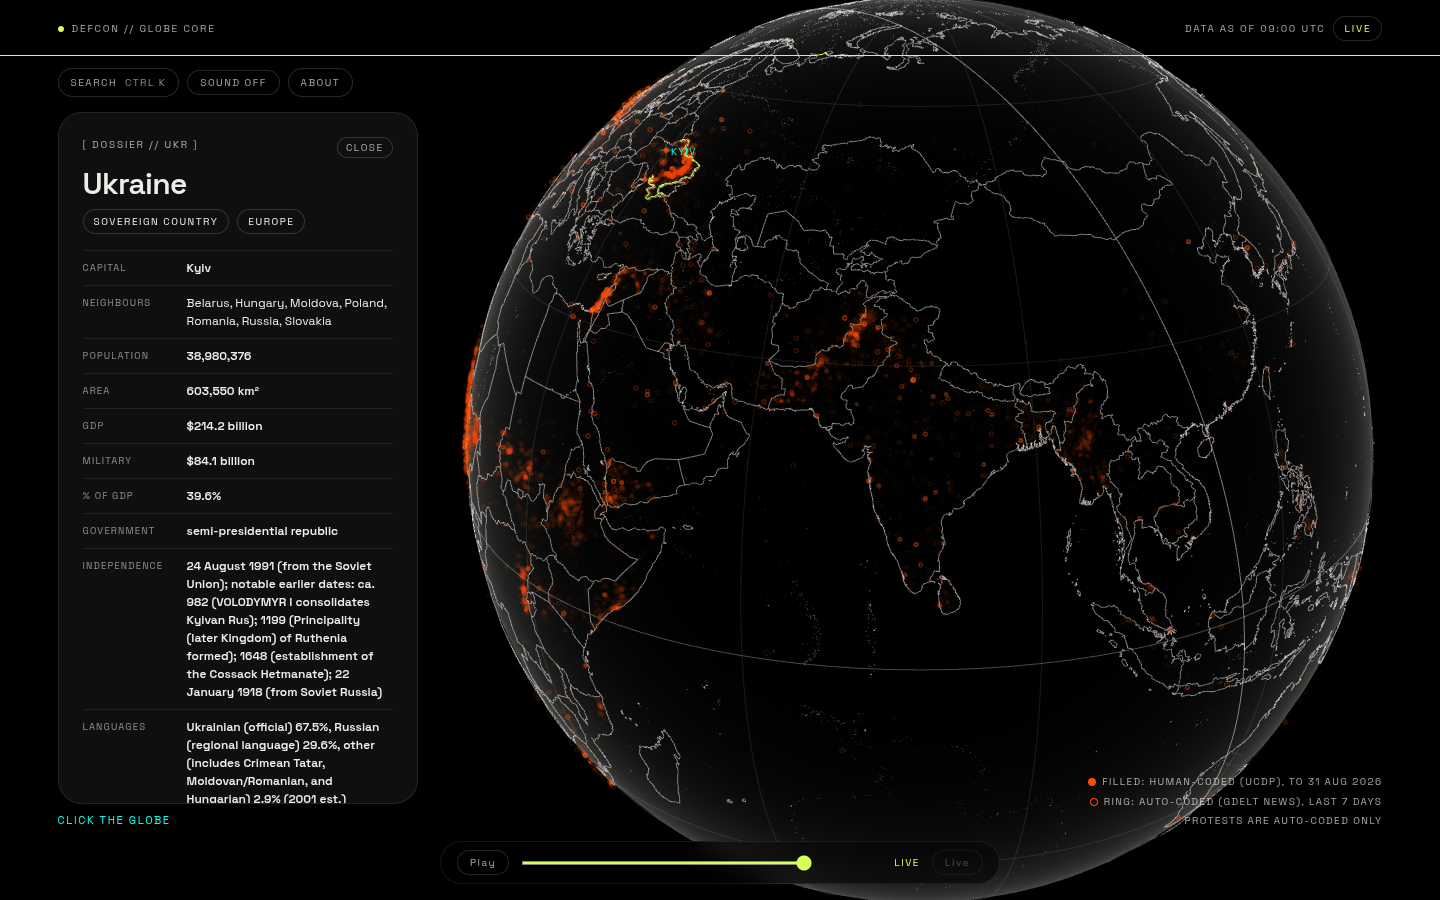
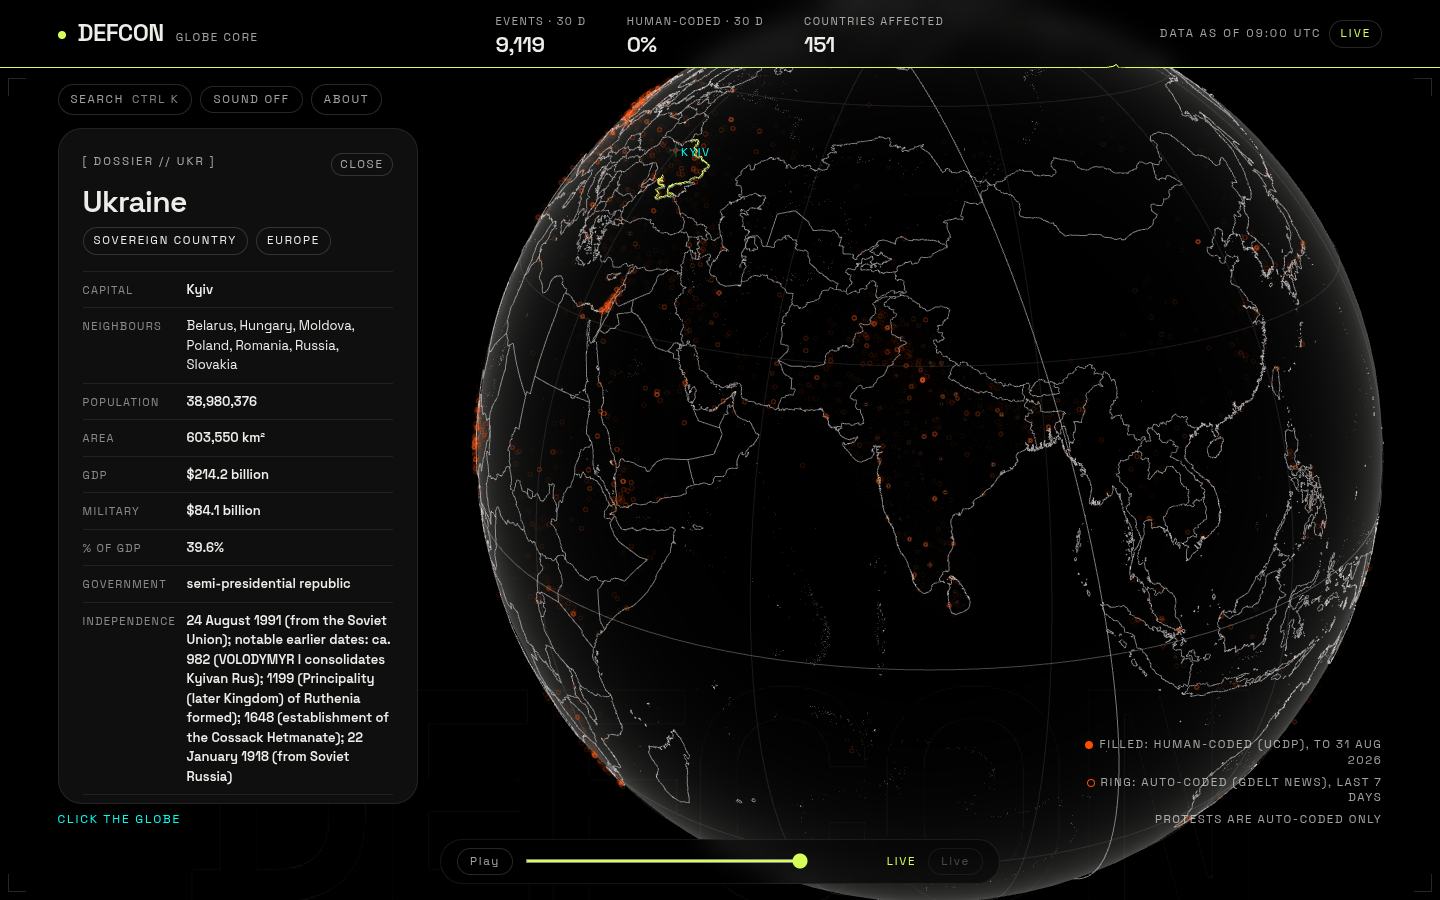
docs(plan-7): record the UI polish and refresh the README screenshots
Why / Context:
Plan 7 Task 5. The ledger and the public README should show the new look.

Detailed inventory:
- docs/images/home.png and dive.png retaken from the built app (headless
  Chrome, 1440x900): glass top bar with live numbers, Hotspots and Latest
  rails, HUD ticks, faint DEFCON word.
- DESIGN-LANGUAGE (UI polish section), DECISIONS D-054, BACKLOG (Plan 7
  deferred items).
- CommandPalette hint "Ctrl K" hidden on phones; the right rail yields to an
  open dossier below 1500 px.

Verification / Impact:
- Full suite passes; screenshots checked at 1100, 1280, 1440, 1920 and 375 px.
- NOT verified: real devices, Firefox.

diff --git a/docs/DECISIONS.md b/docs/DECISIONS.md
@@ -57,4 +57,5 @@ Newest last. "Who": Owner = the project owner decided; Builder = Claude decided 
 | D-051 | 2026-10-18 | Security headers: a strict Content-Security-Policy (`default-src 'self'`, `script-src 'self'` with no inline or eval, no inline styles (React `style` props go through the CSSOM, verified), `img-src 'self'`, same-origin fonts, workers and connections, no plugins, framing, `<base>` or form posts), HSTS (2 years, no includeSubDomains), COOP and CORP. Verified against the built app served with the same headers (`npm run serve:dist`); this found Vite inlining small fonts as `data:` URIs, fixed by `build.assetsInlineLimit: 0` rather than loosening `font-src`. A custom `VITE_EVENTS_BASE` origin must be added to `connect-src`. | Defence in depth for a static site that loads only its own files. | Builder |
 | D-052 | 2026-10-18 | Reliability and honesty: a render error in one panel shows an inline message and never blanks the globe; diagnostics are an in-memory log (20 entries, messages cut, URL queries removed) shown in About and copyable, never sent anywhere; no analytics, cookies or third-party requests (the About page says so); a scheduled freshness monitor fails when the live `recent.meta.json` is older than 12 hours (needs the owner's `SITE_URL` variable). The About page lists every source with licence and age and what the data does not cover. | No accounts or paid services; the owner hears about staleness through GitHub. | Builder |
 | D-053 | 2026-10-18 | The repo is public under the **MIT licence** for the code; the data files keep their upstream licences (UCDP and World Bank CC BY 4.0 need attribution, Natural Earth and the Factbook are public domain, GDELT must be cited), stated in the README and the About page. Before going public the full git history was scanned for key shapes (none), tracked files for large or sensitive files (none; the Survey of India PDF is never committed, only scripts and findings), and the commit author email was noted. Topics and a `v1.0.0` release were added; the README gained real screenshots (headless Chrome of the built app). | Owner: "license laga do, repo public kar do, topics aur release laga do". MIT is the simplest permissive choice and keeps the data licences separate. | Owner decided, Builder chose MIT |
+| D-054 | 2026-10-18 | UI polish after the first look at the live site (owner: ugly scrollbar, small typography, thin top bar, hollow dashboard; the globe, background and motion stay as they are). A type scale with a floor of 11 px, a hairline scrollbar, a glass top bar with live global numbers, two information rails (Hotspots and Latest) built only from data the app already has, and the HUD frame with the faint outline DEFCON word. Honesty rules kept: every number states its window, "--" is shown for unavailable, the Hotspots footnote says news coverage is uneven (it ranks reporting, not danger), and the rails go to a "live view only" message during time travel. | Fills the empty space with meaning instead of decoration; no new data or dependency. | Owner asked, Builder designed |
 

diff --git a/docs/DESIGN-LANGUAGE.md b/docs/DESIGN-LANGUAGE.md
@@ -29,6 +29,16 @@ Syne 700/800 (display: tight, `line-height` about .85, outline variant for backg
 - Missing data is shown as a redaction bar and says "unavailable"; every field shows source and date.
 - `prefers-reduced-motion` disables the boot and auto-rotation; sound is off by default.
 
+## UI polish (Plan 7)
+
+Owner feedback on the live site: the default scrollbar clashed, the type and top bar were thin, the desktop layout felt empty. Fixes, in the same language:
+
+- **Type scale** (`tokens.css`): mono labels 11.5 px (nothing below 11 px anywhere, a test enforces it), data 13 px, body 14 px, titles 30 px (Syne 800), hero numerals 52 px (Space Grotesk 600).
+- **Scrollbar:** a hairline pill (10 px hit area, about 4 px visible, 28 % bone, 60 % on hover, lime while dragged, no arrows, no shadow; Firefox thin).
+- **Top bar:** 68 px glass bar, Syne wordmark, centred live numbers (events in 30 days, human-coded share, countries affected: "--" when unavailable, never 0 for missing), freshness pill on the right, the pulse line on its edge.
+- **Rails** (1100 px and wider): Hotspots (left, hidden while a dossier is open) and Latest (right, hidden while an event card is open; with a dossier open only from 1500 px). Real data only, a footnote says coverage is uneven, "live view only" during time travel. Rows are buttons.
+- **HUD frame:** four hairline corner ticks and the long-promised faint outline DEFCON word behind the interface; hidden on phones.
+
 ## Text colours (Plan 6)
 
 `--text` #EDEDE9, `--text-muted` 68 % and `--text-faint` 55 % of it on true black: all reach WCAG AA (4.5:1), checked by `tests/a11y/contrast.test.ts`. The earlier 50 % / 25 % values did not (faint was 1.9:1) and carried real field labels.

diff --git a/docs/BACKLOG.md b/docs/BACKLOG.md
@@ -111,3 +111,10 @@ Open items found during Plan 1 that were deliberately not fixed. Each is graded 
 - `serve:dist` always falls back to index.html (Vercel has no rewrite and would 404 unknown paths; harmless with hash routing).
 - A custom `VITE_EVENTS_BASE` origin must be added to `connect-src` by hand; the build does not check it.
 - `package-lock.json` has a root `engines` entry that `package.json` does not declare (harmless drift).
+
+## Plan 7 deferred (2026-10-18)
+
+- The rails were checked only in headless Chrome screenshots (1100, 1280, 1440, 1920 px and 375 px) and unit tests; real-device feel, Firefox scrollbars and a screen-reader pass are not done.
+- Hotspots rank GDELT-heavy countries (the US, UK) first because GDELT over-reports them; a per-capita or per-source-normalised ranking would be fairer but needs a decision on method.
+- "Human-coded" shows 0 % for the last 30 days because UCDP's data ends 31 Aug 2026 (true, labelled); a newer human-coded source (ACLED, UCDP candidate releases) would fix the number itself.
+- The faint DEFCON word and corner ticks have no reduced-motion concern (static) but were not tuned for very bright event clusters; the rails are hidden on tablets under 1100 px (no tablet layout yet).
